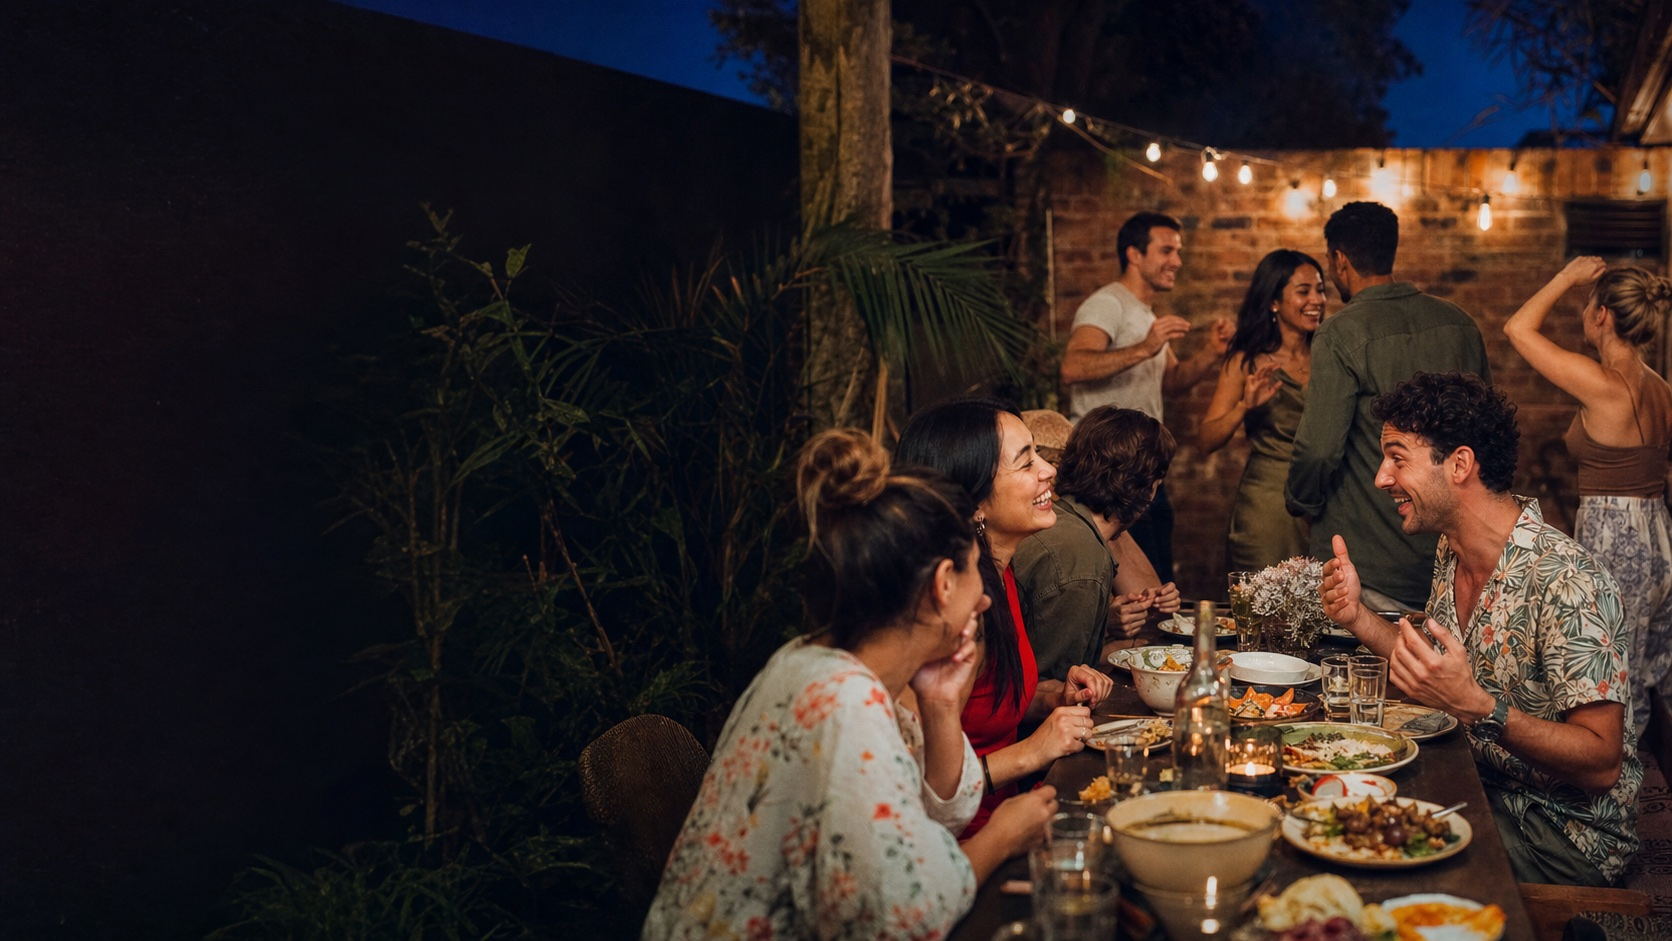
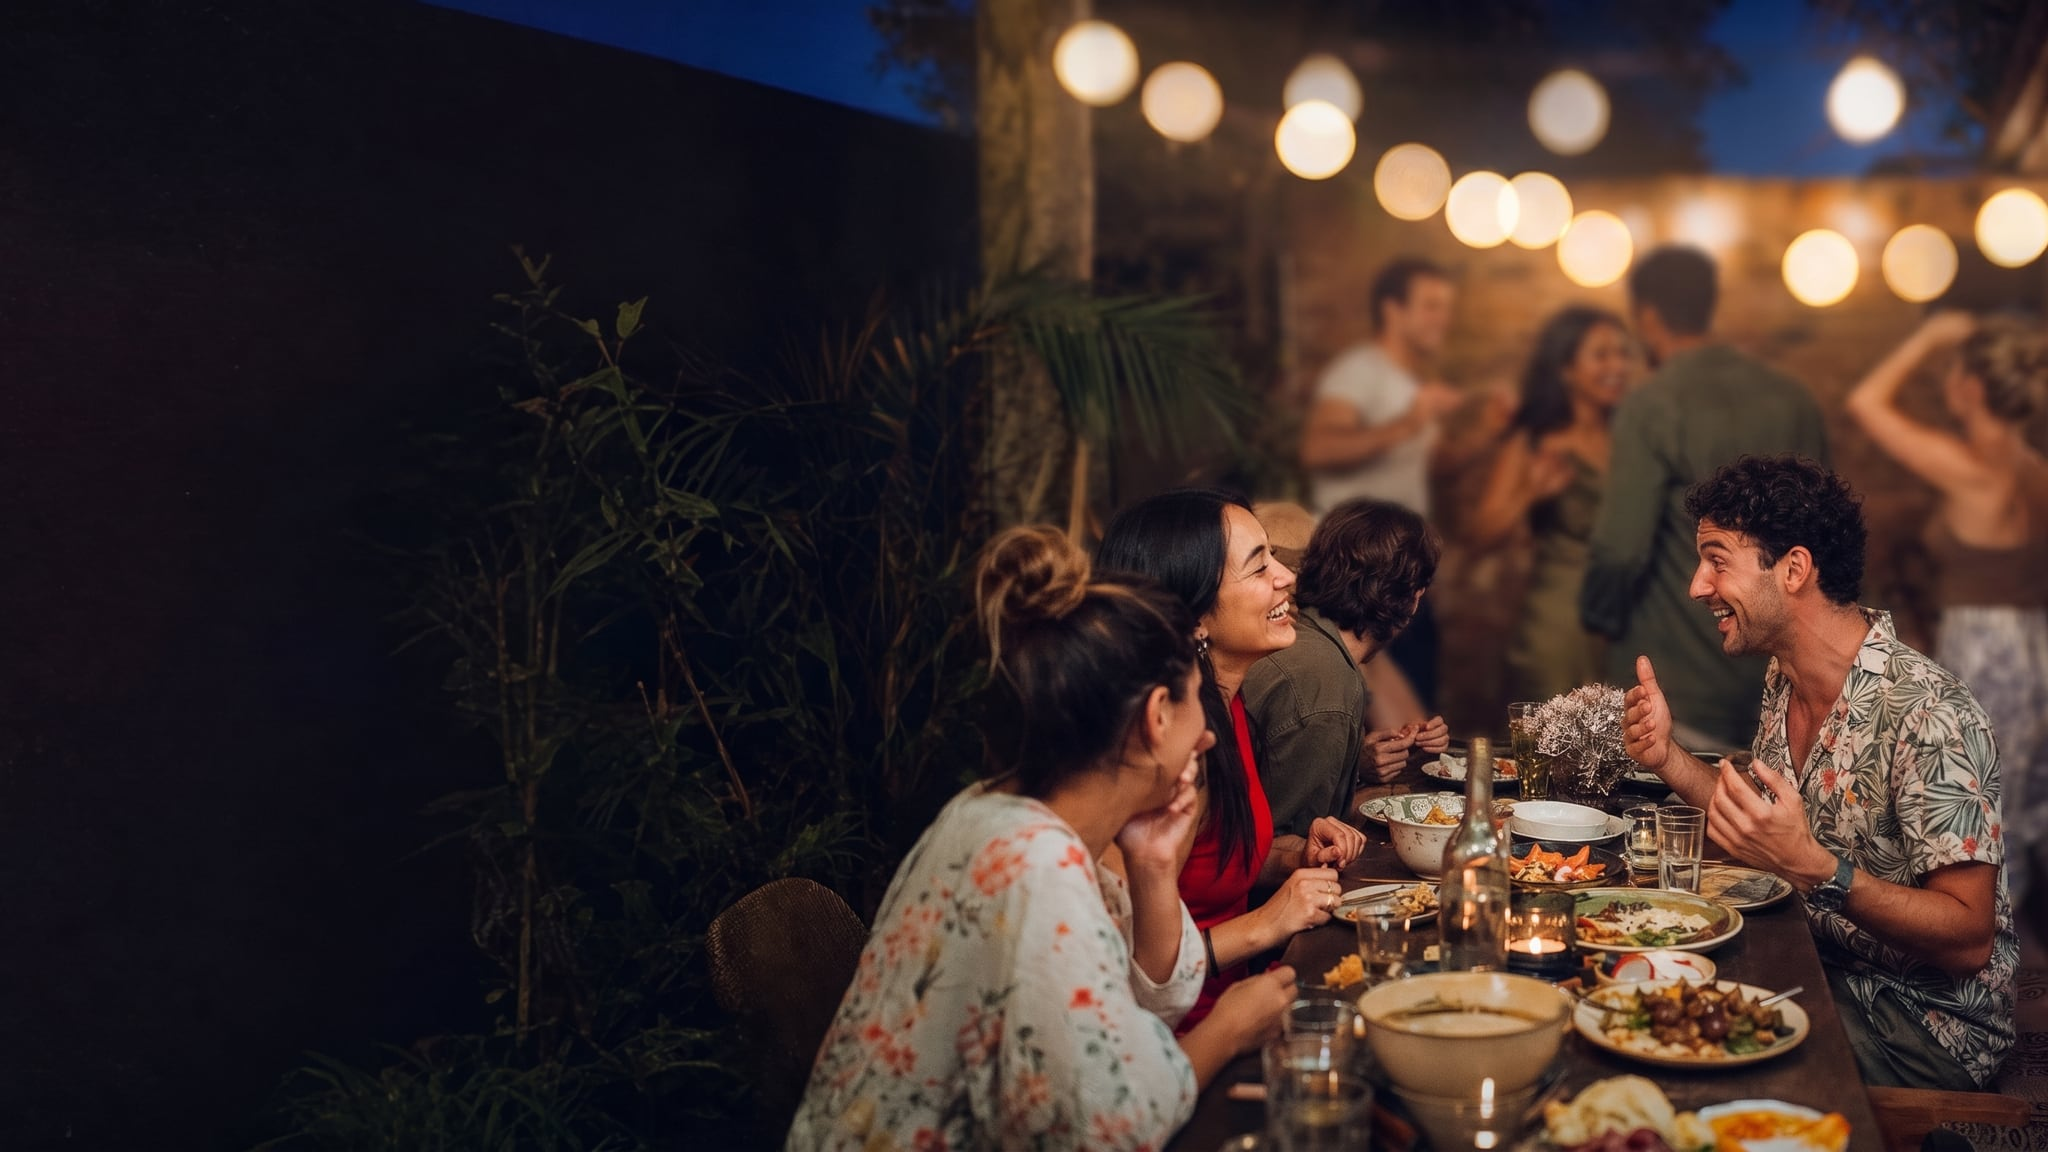
Make the homepage read as things to do, not a night out
The first screen was four evening photos in a row and the second was
whatever hosts had listed, so the page read as a bar or a dating app
until three screens down.

Hero cycle
- The courtyard still opens. Two daytime slides follow it, then the gig:
  a two-player pickleball game on a Sydney park court ("game.") and a
  surf lesson at Bondi ("surf lesson."). Rooftop and bowls leave the
  cycle; their files and specs stay for a one-line swap back.
- The daytime frames zoom a little from the bottom edge on a phone, where
  the headline covers everything below about half way.
- The courtyard photo gets a background bokeh edit: wall and dancers
  soft, string lights as discs, the table untouched. The share card
  reads the same file.

Below the hero
- "What sounds fun?" moves directly under the hero, so the second screen
  is our own four photos and never depends on that week's listings.
- "For hosts" becomes a lav-bg band, the pinboard's pair.
- "Coming up" shows each plan once, on its next date (host + title). A
  repeating event was taking several of the six slots with one photo.

scripts/gen-hero-slides.mjs carries the daytime look, the two new specs
and the courtyard edit recipe.

diff --git a/src/app/page.tsx b/src/app/page.tsx
@@ -7,34 +7,48 @@ import { HostWaitlistForm } from "@/components/host-waitlist-form";
 import { MutualToast } from "@/components/mutual-toast";
 import { Reveal } from "@/components/reveal";
 import { Skeleton, SkeletonEventCard } from "@/components/skeleton";
+import type { EventItem } from "@/lib/click-data";
 import { getEventsForExplore } from "@/lib/event-repository";
 import heroCourtyard from "../../public/home/hero-courtyard.jpg";
 import heroDinner from "../../public/home/hero-dinner.jpg";
 import heroPickleball from "../../public/home/hero-pickleball.jpg";
 import heroRings from "../../public/home/hero-rings.jpg";
 import heroRun from "../../public/home/hero-run.jpg";
-import heroSlideBowls from "../../public/home/hero-slide-bowls.jpg";
 import heroSlideGig from "../../public/home/hero-slide-gig.jpg";
-import heroSlideRooftop from "../../public/home/hero-slide-rooftop.jpg";
+import heroSlidePickleball from "../../public/home/hero-slide-pickleball.jpg";
+import heroSlideSurf from "../../public/home/hero-slide-surf.jpg";
 import wallKaraoke from "../../public/home/wall-karaoke.jpg";
 import wallPicnic from "../../public/home/wall-picnic.jpg";
 import wallTrivia from "../../public/home/wall-trivia.jpg";
 
 /* Below the full-bleed photo hero the page reads as a social page, not a
-   product tour: real plans, the mechanic told as one sentence, a pinboard to
-   browse by, and a `clicked` bookend. No stat ticker or feature grid - those
+   product tour: a pinboard to browse by, real plans, the mechanic told as one
+   sentence, and a `clicked` bookend. The pinboard comes first because the hero
+   is one dinner at night - the prints are where a visitor first sees the range
+   (a workshop, a table, a run, karaoke), and they are ours, so the second
+   screen never depends on what hosts happen to have listed that week. No stat ticker or feature grid - those
    were what made it read as software. Prints are photos only, no captions
    (dropped on purpose in caff3f8). */
 
 /* The photos that dissolve in over the courtyard, in play order, each with the
    word the headline lands on while it shows, so photo and word change on one
    beat. Decorative (the courtyard carries the alt). The timing lives in
-   `hero-slide` and `word-cycle-slot`, both cut for exactly three slides. Each
-   crop keeps its people in a phone's narrow window; from sm the scrim covers
-   the left and the frame shows whole. */
+   `hero-slide` and `word-cycle-slot`, both cut for exactly three slides.
+
+   Two daytime, one night, after the night courtyard: four evening photos in a
+   row read as a bar, not as things to do. Both daytime frames are plainly
+   Sydney without a landmark doing the work (a suburban park court with gum
+   trees, a jacaranda and a sandstone wall; Bondi's promenade and a
+   red-and-yellow flag), and the court has two players in their twenties, not
+   four - a full doubles game read as staged.
+
+   Each crop keeps its people in a phone's narrow window; from sm the scrim
+   covers the left and the frame shows whole. The daytime frames also zoom a
+   little from the bottom edge on a phone: there the headline covers everything
+   below about half way, and the zoom lifts the faces clear of it. */
 const HERO_SLIDES: Array<{ src: StaticImageData; word: string; crop: string }> = [
-  { src: heroSlideRooftop, word: "catch-up.", crop: "object-[77%_center] sm:object-center" },
-  { src: heroSlideBowls, word: "bowls night.", crop: "object-[84%_center] sm:object-center" },
+  { src: heroSlidePickleball, word: "game.", crop: "object-[77%_center] max-sm:origin-bottom max-sm:scale-[1.15] sm:object-center" },
+  { src: heroSlideSurf, word: "surf lesson.", crop: "object-[70%_center] max-sm:origin-bottom max-sm:scale-[1.15] sm:object-center" },
   { src: heroSlideGig, word: "big night.", crop: "object-[72%_center] sm:object-center" },
 ];
 
@@ -198,9 +212,9 @@ function HeroMotionToggle() {
    only once the query landed. */
 async function ComingUp() {
   const events = await getEventsForExplore();
-  const upcoming = [...events]
-    .sort((left, right) => new Date(left.startsAt).getTime() - new Date(right.startsAt).getTime())
-    .slice(0, COMING_UP_COUNT);
+  const upcoming = nextDateOfEachPlan(
+    [...events].sort((left, right) => new Date(left.startsAt).getTime() - new Date(right.startsAt).getTime()),
+  ).slice(0, COMING_UP_COUNT);
 
   return upcoming.length > 0 ? (
     <section className="ck-page pb-16 pt-12 lg:pb-24 lg:pt-16">
@@ -247,6 +261,21 @@ async function ComingUp() {
       </div>
     </section>
   );
+}
+
+/* A weekly run club is one plan with many dates, and soonest-first let it take
+   several of the six slots with the same photo and title. The strip is a
+   sampler, so each plan shows once, on its next date - Discover lists every
+   date. Keyed on host + title rather than the series id, so an event a host
+   duplicated by hand folds in too. Expects soonest-first input. */
+function nextDateOfEachPlan(events: EventItem[]) {
+  const seen = new Set<string>();
+  return events.filter((event) => {
+    const plan = `${event.host}\n${event.title}`.trim().toLowerCase();
+    if (seen.has(plan)) return false;
+    seen.add(plan);
+    return true;
+  });
 }
 
 /* Six fills whole rows at both grid widths: three rows of two from sm, two
@@ -354,48 +383,6 @@ export default function Home() {
         </div>
       </section>
 
-      {/* ============ Real plans - the canonical Event Card, untouched ============ */}
-      <Suspense fallback={<ComingUpPlaceholder />}>
-        <ComingUp />
-      </Suspense>
-
-      {/* ============ The mechanic, told as one sentence ============ */}
-      <section className="ck-page pb-20 lg:pb-28">
-        <Reveal>
-          <p className="eyebrow">How it usually goes</p>
-          {/* Each photo rides in a nowrap span with the word before it, so a
-              wrap can never strand a photo (or the full stop) on its own line. */}
-          <h2 className="font-display mt-6 text-[length:var(--text-display)] leading-[1.18] font-semibold tracking-[-0.03em] text-[color:var(--ink)]">
-            Pick a{" "}
-            <span className="whitespace-nowrap">
-              plan <InlinePic src={heroPickleball} rot="-3deg" />,
-            </span>{" "}
-            <span className="whitespace-nowrap">
-              show up <InlinePic src={wallTrivia} rot="2deg" />
-            </span>{" "}
-            and see who you{" "}
-            <span className="whitespace-nowrap">
-              clicked with <InlinePic src={wallPicnic} rot="-2deg" />.
-            </span>
-          </h2>
-          <div className="mt-8 grid lg:grid-cols-12">
-            <div className="max-w-[560px] lg:col-span-6 lg:col-start-7">
-              <p className="text-base leading-7 text-[color:var(--ink-soft)]">
-                Book something you&apos;d happily do anyway. Come solo or bring someone - the activity
-                does the small talk. Afterwards, see who you clicked with, and make the next plan
-                together.
-              </p>
-              <Link
-                href="/how-it-works"
-                className="ck-taplink font-display mt-4 inline-block text-[15px] font-semibold text-[color:var(--purple)] hover:underline"
-              >
-                How Click works <span className="nudge-arrow" aria-hidden>→</span>
-              </Link>
-            </div>
-          </div>
-        </Reveal>
-      </section>
-
       {/* ============ The pinboard: four doors into Discover ============ */}
       <section className="bg-[color:var(--lav-bg)] py-16 lg:py-24">
         <div className="ck-page">
@@ -452,14 +439,58 @@ export default function Home() {
         </div>
       </section>
 
+      {/* ============ Real plans - the canonical Event Card, untouched ============ */}
+      <Suspense fallback={<ComingUpPlaceholder />}>
+        <ComingUp />
+      </Suspense>
+
+      {/* ============ The mechanic, told as one sentence ============ */}
+      <section className="ck-page pb-20 lg:pb-28">
+        <Reveal>
+          <p className="eyebrow">How it usually goes</p>
+          {/* Each photo rides in a nowrap span with the word before it, so a
+              wrap can never strand a photo (or the full stop) on its own line. */}
+          <h2 className="font-display mt-6 text-[length:var(--text-display)] leading-[1.18] font-semibold tracking-[-0.03em] text-[color:var(--ink)]">
+            Pick a{" "}
+            <span className="whitespace-nowrap">
+              plan <InlinePic src={heroPickleball} rot="-3deg" />,
+            </span>{" "}
+            <span className="whitespace-nowrap">
+              show up <InlinePic src={wallTrivia} rot="2deg" />
+            </span>{" "}
+            and see who you{" "}
+            <span className="whitespace-nowrap">
+              clicked with <InlinePic src={wallPicnic} rot="-2deg" />.
+            </span>
+          </h2>
+          <div className="mt-8 grid lg:grid-cols-12">
+            <div className="max-w-[560px] lg:col-span-6 lg:col-start-7">
+              <p className="text-base leading-7 text-[color:var(--ink-soft)]">
+                Book something you&apos;d happily do anyway. Come solo or bring someone - the activity
+                does the small talk. Afterwards, see who you clicked with, and make the next plan
+                together.
+              </p>
+              <Link
+                href="/how-it-works"
+                className="ck-taplink font-display mt-4 inline-block text-[15px] font-semibold text-[color:var(--purple)] hover:underline"
+              >
+                How Click works <span className="nudge-arrow" aria-hidden>→</span>
+              </Link>
+            </div>
+          </div>
+        </Reveal>
+      </section>
+
       {/* ============ For hosts: the host waitlist ============
           Details in, a row in host_waitlist out (HostWaitlistForm ->
           joinHostWaitlistAction). It sits beside the instant-access signup,
-          which keeps its own "Host an event" link in the bookend below. On
-          cream between the lav-bg pinboard and the deep bookend; the form is
-          left out of Reveal so it never waits on an entrance to be usable. */}
-      <section id="hosts" aria-labelledby="hosts-heading" className="ck-page py-16 lg:py-24">
-        <div className="grid gap-8 lg:grid-cols-12 lg:gap-10">
+          which keeps its own "Host an event" link in the bookend below. A
+          lav-bg band, the pinboard's pair: the page runs deep, lav, cream,
+          cream, lav, deep, so the two cream sections above read as its middle.
+          The form is left out of Reveal so it never waits on an entrance to be
+          usable. */}
+      <section id="hosts" aria-labelledby="hosts-heading" className="bg-[color:var(--lav-bg)] py-16 lg:py-24">
+        <div className="ck-page grid gap-8 lg:grid-cols-12 lg:gap-10">
           <Reveal className="lg:col-span-5 lg:pt-2">
             <p className="eyebrow">For hosts</p>
             <h2
